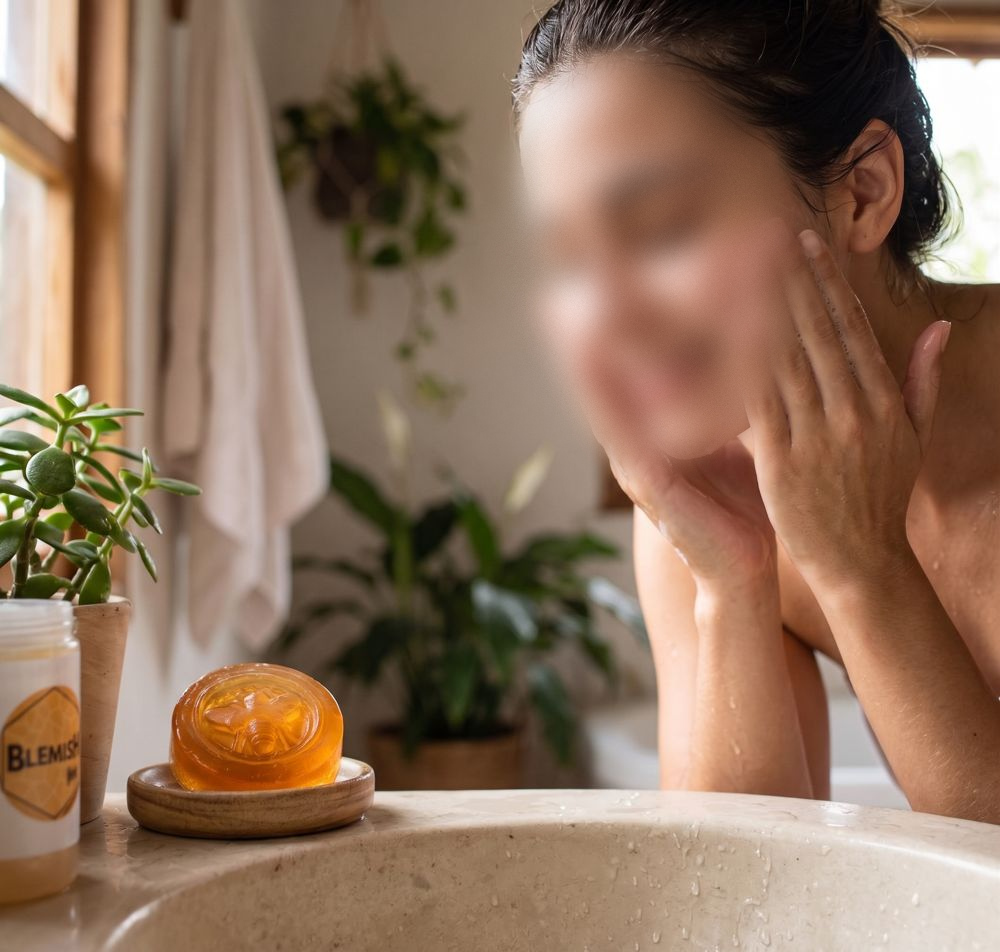
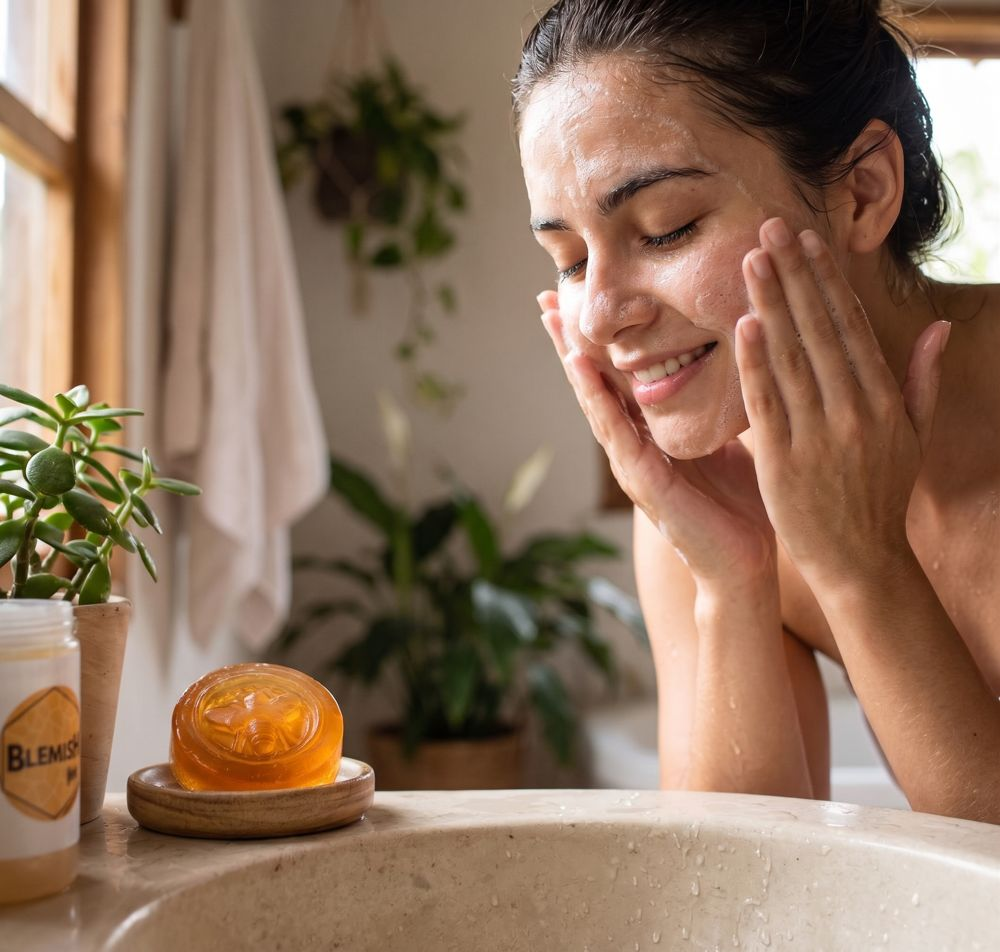
jabon-2: restaurar foto original (persona generada con IA)

Changed region(s): [[0.496, 0.0609, 0.806, 0.4874]]

diff --git a/productos/jabon-de-miel.html b/productos/jabon-de-miel.html
@@ -8,7 +8,7 @@
 <input type="checkbox" id="nav-t" hidden><label for="nav-t" class="burger" aria-label="Menú">☰</label>
 <nav><a href="../index.html#nosotros">Nosotros</a><a href="../index.html#experiencias">Experiencias</a><a href="../index.html#productos">Productos</a><a href="../index.html#opiniones">Opiniones</a><a href="../index.html#contacto">Contacto</a></nav></header>
 <main class="sec pf"><div class="wrap"><p class="pf-back"><a href="../index.html#productos">← Volver al catálogo</a> · <span>Jabones de miel</span></p>
-<div class="pf-grid"><div class="pf-gal"><figure class="pf-main"><picture><source id="pf-src" srcset="../img/jabon-ad.webp?v=inv1" type="image/webp"><img id="pf-img" src="../img/jabon-ad.jpg?v=inv1" alt="Jabón de miel"></picture></figure><div class="pf-thumbs"><button type="button" data-i="jabon-ad" aria-label="Ver foto 1" class=on><img src="../img/jabon-ad.webp?v=inv1" alt=""></button><button type="button" data-i="jabon-2" aria-label="Ver foto 2"><img src="../img/jabon-2.webp?v=inv1" alt=""></button><button type="button" data-i="jabon-3" aria-label="Ver foto 3"><img src="../img/jabon-3.webp" alt=""></button></div><script>document.querySelectorAll(".pf-thumbs button").forEach(b=>b.onclick=()=>{const i=b.dataset.i;document.getElementById("pf-src").srcset="../img/"+i+".webp";document.getElementById("pf-img").src="../img/"+i+".jpg";document.querySelectorAll(".pf-thumbs button").forEach(x=>x.classList.toggle("on",x===b))})</script></div><div class="pf-info"><h1>Jabón de miel</h1><p class="pf-pres">Barra redonda translúcida color ámbar con una abeja grabada en el centro · 50 g</p><p class="pf-price">$13.000 <small>IVA incluido</small></p>
+<div class="pf-grid"><div class="pf-gal"><figure class="pf-main"><picture><source id="pf-src" srcset="../img/jabon-ad.webp?v=inv1" type="image/webp"><img id="pf-img" src="../img/jabon-ad.jpg?v=inv1" alt="Jabón de miel"></picture></figure><div class="pf-thumbs"><button type="button" data-i="jabon-ad" aria-label="Ver foto 1" class=on><img src="../img/jabon-ad.webp?v=inv1" alt=""></button><button type="button" data-i="jabon-2" aria-label="Ver foto 2"><img src="../img/jabon-2.webp?v=orig2" alt=""></button><button type="button" data-i="jabon-3" aria-label="Ver foto 3"><img src="../img/jabon-3.webp" alt=""></button></div><script>document.querySelectorAll(".pf-thumbs button").forEach(b=>b.onclick=()=>{const i=b.dataset.i;document.getElementById("pf-src").srcset="../img/"+i+".webp";document.getElementById("pf-img").src="../img/"+i+".jpg";document.querySelectorAll(".pf-thumbs button").forEach(x=>x.classList.toggle("on",x===b))})</script></div><div class="pf-info"><h1>Jabón de miel</h1><p class="pf-pres">Barra redonda translúcida color ámbar con una abeja grabada en el centro · 50 g</p><p class="pf-price">$13.000 <small>IVA incluido</small></p>
 <p>Jabón artesanal hecho con miel de abejas 100% natural de nuestras colmenas en Jamundí. Ofrece una limpieza suave sin resecar, deja la piel suave y tiene el aroma y la dulzura de la miel. Libre de químicos agresivos, es para el uso diario en manos, rostro y cuerpo, en todo tipo de piel.</p>
 <div class="pf-btns"><button class="btn" disabled aria-label="Comprar (próximamente)" style="background:transparent;color:transparent;border:1.5px solid #d9c690;box-shadow:none;cursor:default;opacity:1">Comprar · Próximamente</button> <a class="btn wa" href="https://wa.me/573186506095?text=Hola%2C%20quiero%20informaci%C3%B3n%20sobre%20Jab%C3%B3n%20de%20miel%20de%20Finca%20Blemish" target="_blank" rel="noopener">Pregunta por WhatsApp</a></div>
 <h2>Características</h2><ul class="pf-list"><li>Origen: Finca Blemish, Jamundí, Valle del Cauca (Colombia)</li><li>Elaborado con miel de abejas 100% natural</li><li>Barra redonda translúcida color ámbar, con abeja grabada en el centro</li><li>Peso: 50 g</li><li>Libre de químicos agresivos</li><li>Ingredientes (INCI): por confirmar</li></ul>
